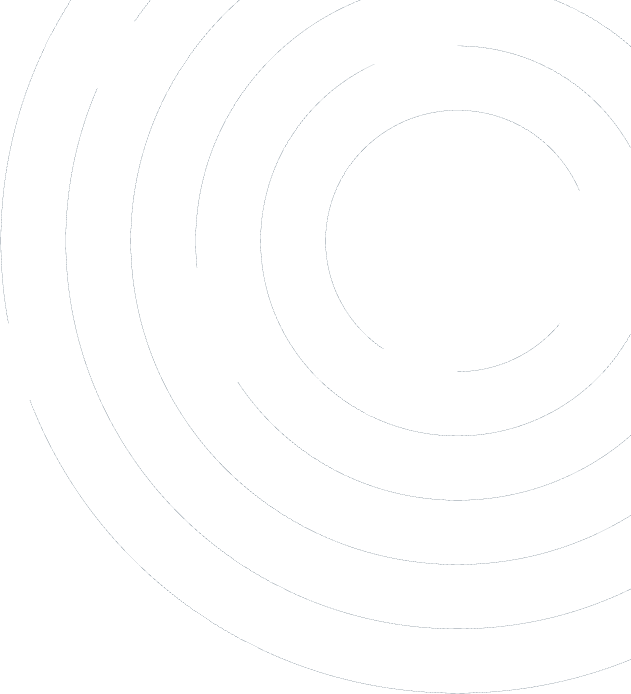
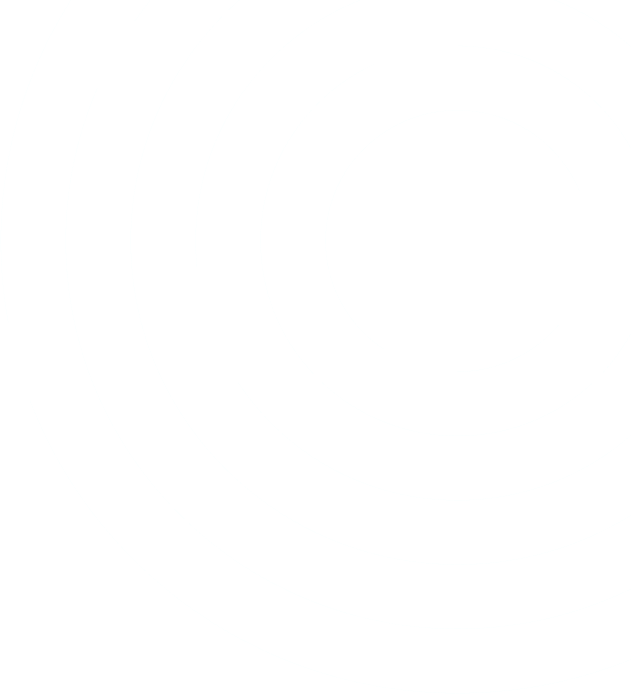
fix: Clarify naming for img_ripple_light and img_ripple_dark

Changed region(s): [[0.6926, 0.9986, 0.7528, 1.0]]

diff --git a/frontend/src/features/layout/components/RippleDecoration.jsx b/frontend/src/features/layout/components/RippleDecoration.jsx
@@ -5,13 +5,13 @@ export function RippleDecoration() {
 		<div className="app-layout__ripple">
 			<img
 				className="app-layout__ripple-image app-layout__ripple-image--light-theme"
-				src="./static/images/img_ripple_dark.webp"
+				src="/static/images/img_ripple_light.webp"
 				alt=""
 				aria-hidden="true"
 			/>
 			<img
 				className="app-layout__ripple-image app-layout__ripple-image--dark-theme"
-				src="./static/images/img_ripple.webp"
+				src="/static/images/img_ripple_dark.webp"
 				alt=""
 				aria-hidden="true"
 			/>